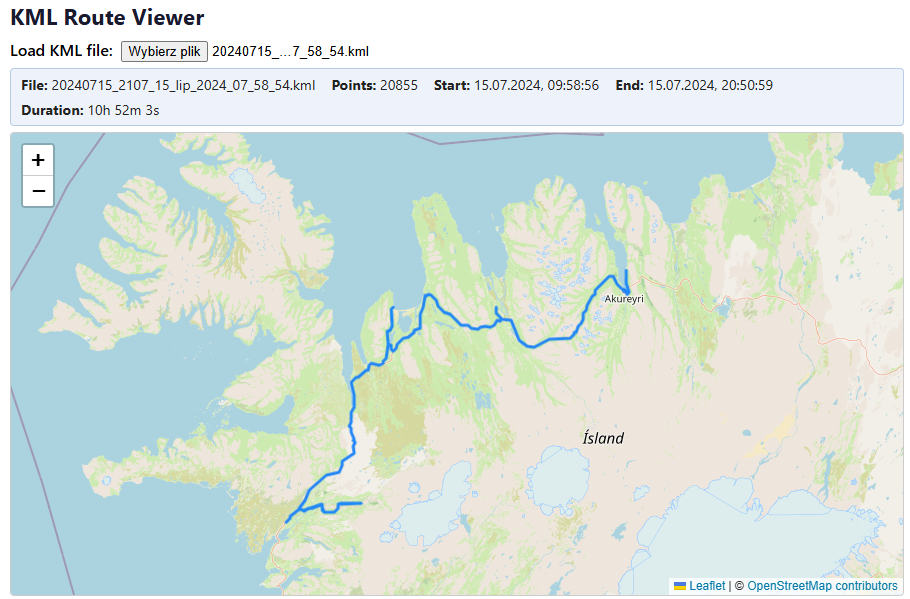
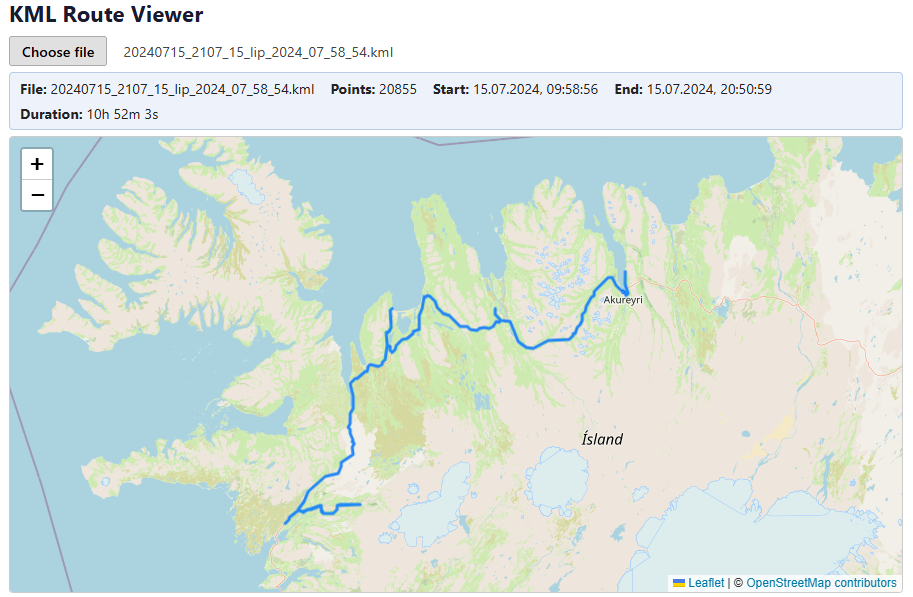
language fixes (#3)

diff --git a/src/app/app.ts b/src/app/app.ts
@@ -20,6 +20,7 @@ export class App {
   readonly points = signal<TrackPoint[]>([]);
   readonly errors = signal<string[]>([]);
   readonly summary = signal<TrackSummary | null>(null);
+  selectedFileName = '';
 
   constructor(private kmlParser: KmlParserService) {}
 
@@ -27,6 +28,8 @@ export class App {
     const input = event.target as HTMLInputElement;
     const file = input.files?.[0];
     if (!file) return;
+
+    this.selectedFileName = file.name;
 
     const reader = new FileReader();
     reader.onload = (e) => {

diff --git a/src/app/app.html b/src/app/app.html
@@ -2,8 +2,9 @@
   <h1>KML Route Viewer</h1>
 
   <div class="controls">
-    <label for="kml-file">Load KML file:</label>
-    <input id="kml-file" type="file" accept=".kml" (change)="onFileChange($event)" />
+    <label class="file-btn" for="kml-file">Choose file</label>
+    <input id="kml-file" class="file-input" type="file" accept=".kml" (change)="onFileChange($event)" />
+    <span class="file-name">{{ selectedFileName || 'No file chosen' }}</span>
   </div>
 
   @if (errors().length > 0) {

diff --git a/src/app/app.css b/src/app/app.css
@@ -13,7 +13,34 @@ h1 {
 }
 
 .controls {
+  display: flex;
+  align-items: center;
+  gap: 8px;
   margin-bottom: 6px;
+}
+
+.file-input {
+  display: none;
+}
+
+.file-btn {
+  display: inline-block;
+  padding: 4px 12px;
+  background: #e0e0e0;
+  border: 1px solid #aaa;
+  border-radius: 3px;
+  cursor: pointer;
+  font-size: 0.9rem;
+  white-space: nowrap;
+}
+
+.file-btn:hover {
+  background: #d0d0d0;
+}
+
+.file-name {
+  font-size: 0.9rem;
+  color: #444;
 }
 
 .controls label {
